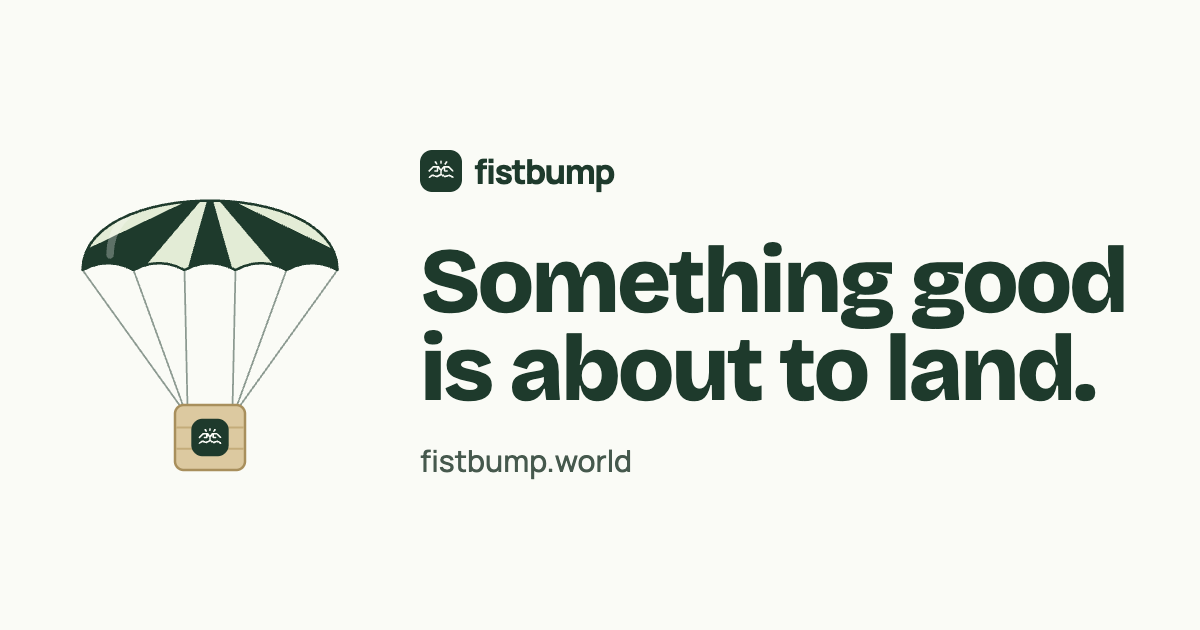
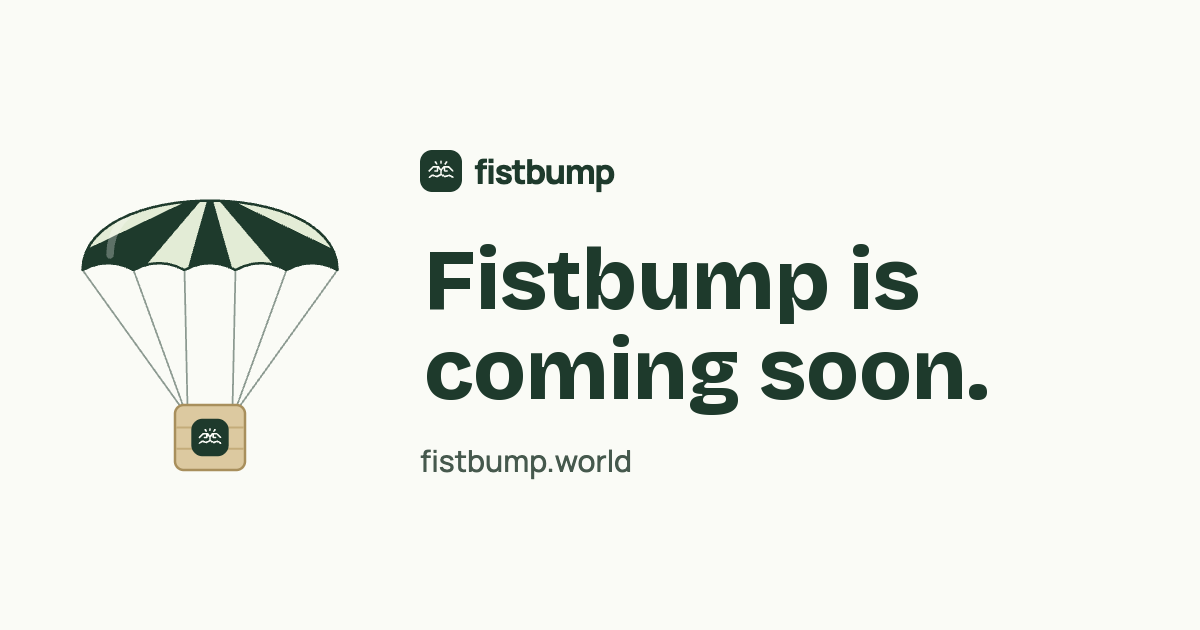
Plain words: no em dashes or slogans anywhere members read (#67)
- Russian: 191 lines rewritten without the em dash; Chinese shouts and two
  Croatian dashes too. The Russian notifications get the same fix in a new
  migration that only updates those five rows.
- About 25 English lines rewritten plainly: the world title, the import card,
  outfit and arrival lines ("Warm hat, warm hello.", "like a pro"), the share
  card, the 404 page, "Safe and yours", the World Partners heading. Every
  catalog has the new texts; the old keys are gone.
- The operator line is "Sinda Khenine (Fistbump)" in the app, the legal pages
  and the Season rules. The X-import card hides a number it doesn't have instead
  of showing a dash.
- Website teaser, its share picture and the browser tab title say plainly what
  is coming. Store listings in 14 languages lose "beautiful", "keep the
  community real" and the "Travelling?" header.
- tests/plain-words.test.ts fails on an em dash, a dash used as punctuation or
  a stock phrase; the rule is in CLAUDE.md and docs/I18N.md.

Reviewed by Codex (gpt-6-astra): 7 findings, 6 fixed. The test still scans code
comments for em dashes on purpose.

Changed region(s): [[0.3392, 0.3921, 0.9558, 0.6635]]

diff --git a/terms/index.html b/terms/index.html
@@ -19,7 +19,7 @@
       <h2>The service</h2>
       <p>
         Fistbump helps builders who know each other on X meet in real life. It is run by Sinda
-        Khenine – Fistbump, a sole proprietor in Rothenburg ob der Tauber, Germany
+        Khenine, a sole proprietor in Rothenburg ob der Tauber, Germany
         (<a href="mailto:contact@skatalystai.com">contact@skatalystai.com</a>; full details in the
         <a href="/impressum/">legal notice</a>). Fistbump is the name of the service, not a separate
         company. Fistbump is a beta: features can change, and the service can be unavailable at
@@ -135,7 +135,7 @@
       <p>
         <strong>Right of withdrawal (EU consumers)</strong>: you may withdraw from a Plus purchase
         within 14 days of the day you bought it, without giving a reason. To withdraw, tell Sinda
-        Khenine – Fistbump, Rothenburg ob der Tauber, Germany,
+        Khenine (Fistbump), Rothenburg ob der Tauber, Germany,
         <a href="mailto:contact@skatalystai.com">contact@skatalystai.com</a>, in a clear statement
         (for example an email); you can use the form below, but you don’t have to. Sending it before
         the 14 days end is enough. If you withdraw, we refund all payments for that purchase within
@@ -145,7 +145,7 @@
       </p>
       <p>
         <strong>Model withdrawal form</strong> (fill in and send it only if you want to withdraw):
-        To Sinda Khenine – Fistbump, Rothenburg ob der Tauber, Germany, contact@skatalystai.com:
+        To Sinda Khenine (Fistbump), Rothenburg ob der Tauber, Germany, contact@skatalystai.com:
         I hereby give notice that I withdraw from my contract for the following service: Fistbump
         Plus (monthly / yearly). Ordered on: … · Name: … · Address: … · X @handle or email used at
         checkout: … · Date: … · Signature (only on paper).
@@ -153,8 +153,8 @@
 
       <h2>The Season</h2>
       <p>
-        The Season is a free competition among members who choose to join it. Sinda Khenine –
-        Fistbump organises and runs it. A Season has an award only once it is fully paid for; the
+        The Season is a free competition among members who choose to join it. Sinda Khenine
+        (Fistbump) organises and runs it. A Season has an award only once it is fully paid for; the
         Season page then shows it, and Fistbump gives it to the winner. No business sponsors the
         Season or has any say in who wins. It is governed by the
         <a href="https://app.fistbump.world/rules">Season rules</a>. Buying Plus never gives points or

diff --git a/index.html b/index.html
@@ -6,7 +6,7 @@
     <title>Fistbump</title>
     <meta
       name="description"
-      content="Something good is about to land. Coming soon to fistbump.world."
+      content="Fistbump, a new app for builders, is coming soon."
     />
     <meta name="theme-color" content="#FAFBF6" />
     <link rel="icon" href="/favicon.svg" type="image/svg+xml" />
@@ -17,7 +17,7 @@
     <meta property="og:url" content="https://fistbump.world/" />
     <meta property="og:site_name" content="Fistbump" />
     <meta property="og:title" content="Fistbump" />
-    <meta property="og:description" content="Something good is about to land." />
+    <meta property="og:description" content="A new app for builders, coming soon." />
     <meta property="og:image" content="https://fistbump.world/og.png" />
     <meta property="og:image:width" content="1200" />
     <meta property="og:image:height" content="630" />
@@ -28,7 +28,7 @@
     <meta name="twitter:card" content="summary_large_image" />
     <meta name="twitter:site" content="@skatalystai" />
     <meta name="twitter:title" content="Fistbump" />
-    <meta name="twitter:description" content="Something good is about to land." />
+    <meta name="twitter:description" content="A new app for builders, coming soon." />
     <meta name="twitter:image" content="https://fistbump.world/og.png" />
     <link
       rel="preload"
@@ -306,8 +306,8 @@
           </g>
         </g>
       </svg>
-      <h1>Something good is about to land.</h1>
-      <p>A new thing for builders is on its way. The first look goes out on X.</p>
+      <h1>Fistbump is coming soon.</h1>
+      <p>A new app for builders. The first look goes out on X.</p>
       <a class="follow" href="https://x.com/skatalystai" rel="noopener">
         <svg viewBox="0 0 24 24" aria-hidden="true">
           <path

diff --git a/privacy/index.html b/privacy/index.html
@@ -18,7 +18,7 @@
 
       <h2>Who is responsible</h2>
       <p>
-        Fistbump is run by Sinda Khenine – Fistbump, a sole proprietor in Rothenburg ob der Tauber,
+        Fistbump is run by Sinda Khenine, a sole proprietor in Rothenburg ob der Tauber,
         Germany (full details in the <a href="/impressum/">legal notice</a>). Email:
         <a href="mailto:contact@skatalystai.com">contact@skatalystai.com</a>. This is the controller
         for the personal data described here under the EU General Data Protection Regulation (GDPR).

diff --git a/partner-terms/index.html b/partner-terms/index.html
@@ -18,7 +18,7 @@
       <p>
         These terms are for businesses buying a World Partner placement on
         <a href="https://app.fistbump.world/sponsor">app.fistbump.world/sponsor</a>. The seller is
-        Sinda Khenine – Fistbump, a sole proprietor, Rothenburg ob der Tauber, Germany
+        Sinda Khenine (Fistbump), a sole proprietor, Rothenburg ob der Tauber, Germany
         (<a href="mailto:contact@skatalystai.com">contact@skatalystai.com</a>). Placements are sold to
         businesses only, not to consumers.
       </p>

diff --git a/impressum/index.html b/impressum/index.html
@@ -23,7 +23,7 @@
 
       <h2>Provider</h2>
       <p>
-        Sinda Khenine – Fistbump<br />
+        Sinda Khenine (Fistbump)<br />
         Rothenburg ob der Tauber<br />
         Germany
       </p>
@@ -55,7 +55,7 @@
       <div lang="de">
         <p><strong>Angaben gemäß § 5 DDG</strong></p>
         <p>
-          Sinda Khenine – Fistbump<br />
+          Sinda Khenine (Fistbump)<br />
           Rothenburg ob der Tauber<br />
           Deutschland
         </p>
